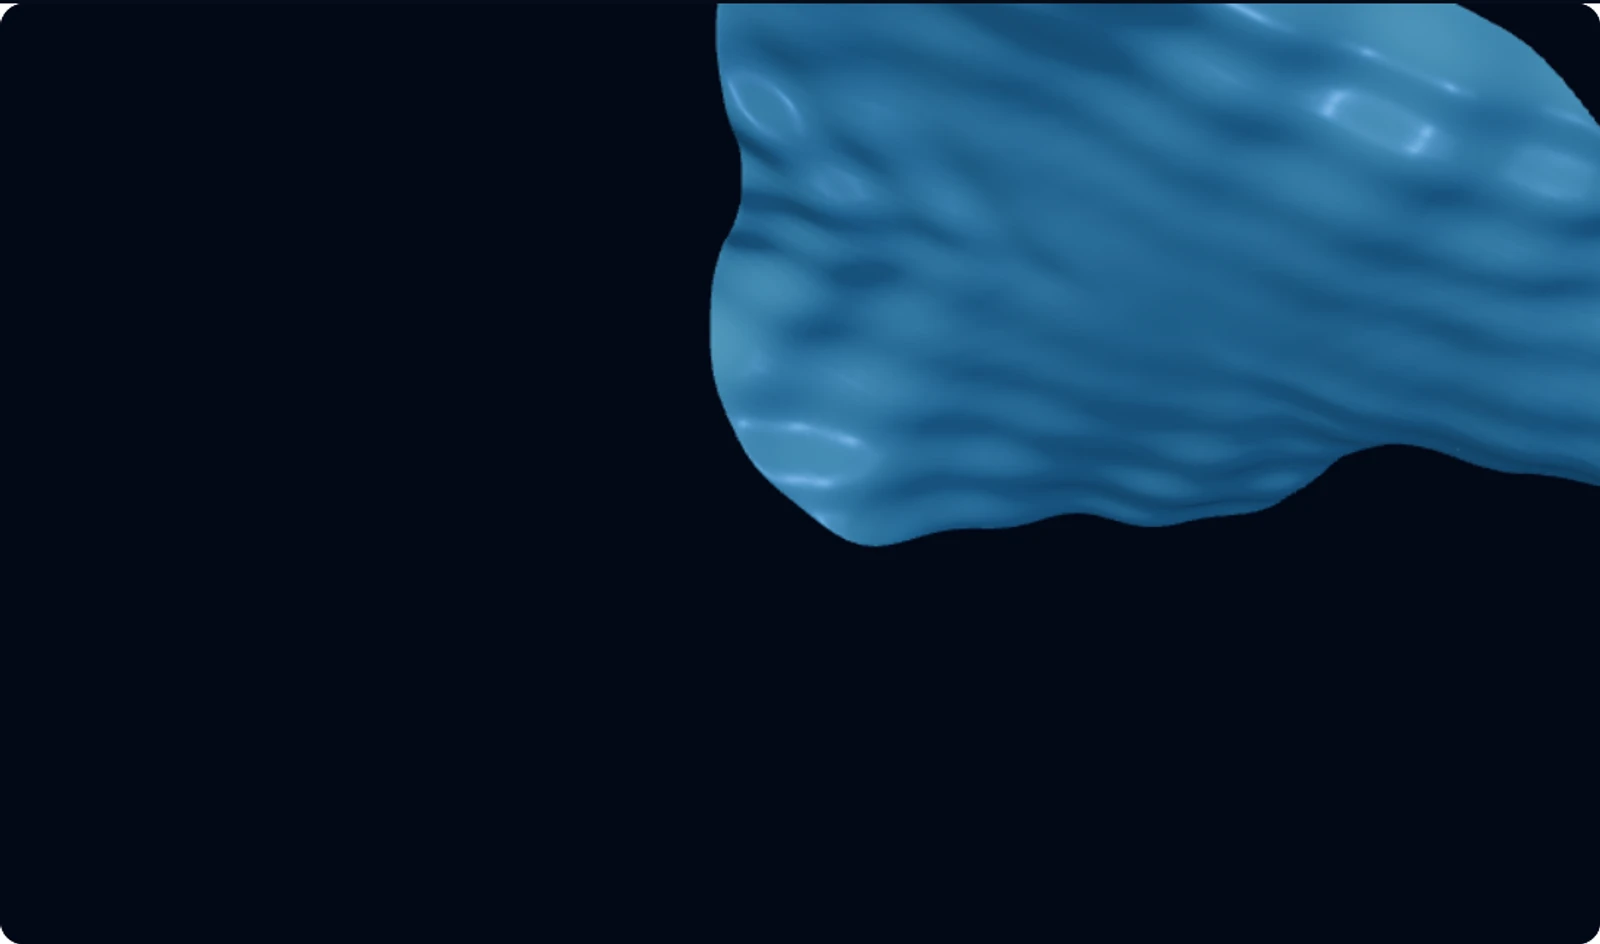
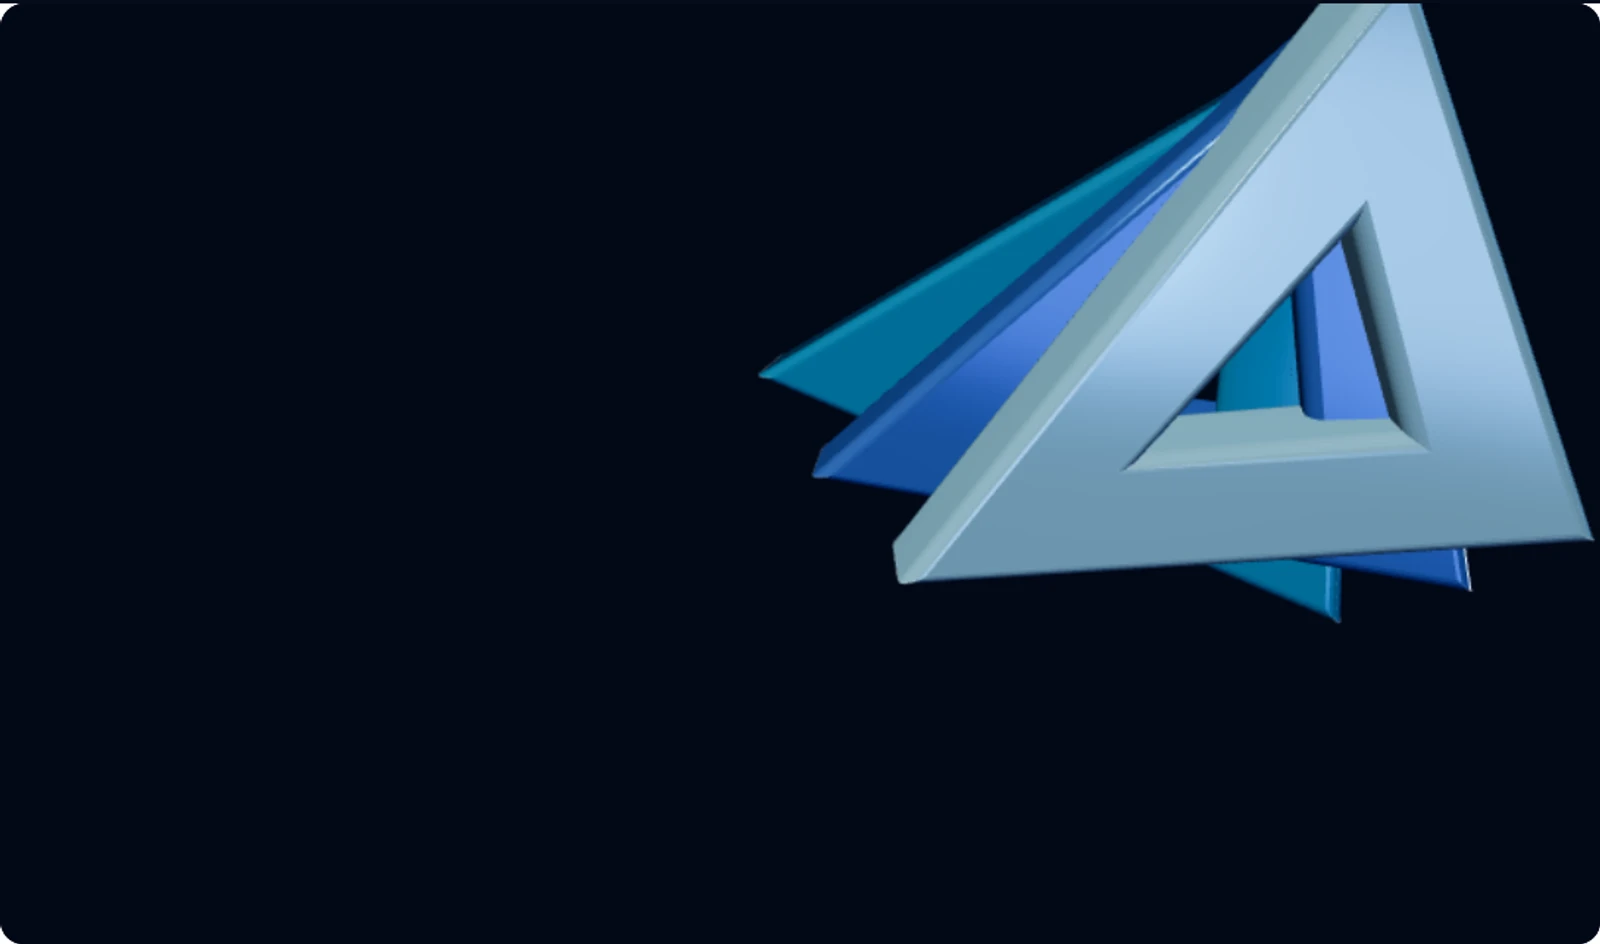
Replace Cytellect cell motif with optical aperture sculpture

diff --git a/src/app/(official)/founder/cell-field-engine.ts b/src/app/(official)/founder/cell-field-engine.ts
@@ -2,56 +2,35 @@ import * as THREE from "three";
 
 export type CellSceneController = { dispose(): void; syncMotion(): void };
 
-// Original deterministic artwork; not measured or reconstructed biological data.
-function membraneGeometry(detail: number) {
-  const geometry = new THREE.SphereGeometry(1, detail, Math.round(detail * .7));
-  const positions = geometry.attributes.position, p = new THREE.Vector3();
-  for (let i = 0; i < positions.count; i++) {
-    p.fromBufferAttribute(positions, i);
-    const angle = Math.atan2(p.y, p.x), radial = Math.hypot(p.x, p.y);
-    // A spread cell's shallow optical surface: broad asymmetry, not a swollen orb.
-    const outline = 1 + .105 * Math.sin(angle * 3 + .4) + .055 * Math.cos(angle * 5 - .8)
-      + .035 * Math.sin(angle * 2 - .6);
-    const edge = radial ** 4;
-    const drape = .16 * Math.sin(angle * 3 + .6) * edge
-      + .06 * Math.cos(angle * 6 - .9) * edge;
-    const saddle = .15 * p.x * p.y + .065 * Math.sin(p.x * 4 + p.y * 2) * radial;
-    const opticalFolds = .018 * Math.sin(p.x * 19 + p.y * 8 + Math.sin(p.y * 5) * 2)
-      + .009 * Math.sin(p.y * 31 - p.x * 7 + Math.sin(p.x * 4));
-    const thickness = .034 * p.z * (1 + .12 * Math.cos(p.x * 5 - p.y * 3));
-    positions.setXYZ(i, p.x * outline * 1.24, p.y * outline * .89, thickness + drape + saddle + opticalFolds * radial);
-  }
-  geometry.computeVertexNormals();
+// An authored optical sculpture, deliberately independent of cellular anatomy.
+function opticalFacet() {
+  const outline = new THREE.Shape();
+  outline.moveTo(-.94, -.69);
+  outline.lineTo(.92, -.54);
+  outline.lineTo(.15, .94);
+  outline.closePath();
+  const aperture = new THREE.Path();
+  aperture.moveTo(-.42, -.36);
+  aperture.lineTo(.15, .42);
+  aperture.lineTo(.45, -.29);
+  aperture.closePath();
+  outline.holes.push(aperture);
+  const geometry = new THREE.ExtrudeGeometry(outline, {
+    depth: .22, bevelEnabled: true, bevelSize: .06, bevelThickness: .06,
+    bevelSegments: 6, steps: 1, curveSegments: 1,
+  });
+  geometry.translate(0, 0, -.11);
   return geometry;
 }
 
-function membraneMaterial(time: THREE.IUniform<number>) {
-  const material = new THREE.MeshPhysicalMaterial({
-    color: 0x639ebd, metalness: .08, roughness: .22,
-    transmission: .48, thickness: .08,
-    attenuationColor: new THREE.Color(0x4e96d0), attenuationDistance: 2.5, ior: 1.34,
-    clearcoat: .12, clearcoatRoughness: .32, side: THREE.FrontSide, envMapIntensity: .85,
-    iridescence: .32, iridescenceIOR: 1.3, iridescenceThicknessRange: [140, 280],
+function opticalMaterial(color: number) {
+  return new THREE.MeshPhysicalMaterial({
+    color, metalness: .48, roughness: .13, transmission: .27,
+    thickness: .28, ior: 1.48, attenuationColor: new THREE.Color(color),
+    attenuationDistance: 1.7, clearcoat: 1, clearcoatRoughness: .065,
+    envMapIntensity: 1.8, iridescence: .18,
+    iridescenceIOR: 1.32, iridescenceThicknessRange: [160, 310],
   });
-  material.onBeforeCompile = shader => {
-    shader.uniforms.cellTime = time;
-    shader.vertexShader = "uniform float cellTime; varying vec3 cellSurface;\n" + shader.vertexShader;
-    shader.vertexShader = shader.vertexShader.replace("#include <begin_vertex>", `
-      #include <begin_vertex>
-      float drift = sin(position.x * 3.2 + position.y * 2.1 + cellTime * .25);
-      transformed.z += drift * .003;
-      cellSurface = position;
-    `);
-    shader.fragmentShader = "varying vec3 cellSurface;\n" + shader.fragmentShader;
-    shader.fragmentShader = shader.fragmentShader.replace("#include <normal_fragment_maps>", `
-      #include <normal_fragment_maps>
-      float relief = sin(cellSurface.x * 46.0 + sin(cellSurface.y * 9.0) * 3.0)
-        * cos(cellSurface.y * 39.0 + sin(cellSurface.x * 7.0) * 2.0);
-      normal = normalize(normal + vec3(dFdx(relief), dFdy(relief), 0.0) * .055);
-    `);
-  };
-  material.customProgramCacheKey = () => "cytellect-spread-membrane-v2";
-  return material;
 }
 
 function opticalEnvironment(renderer: THREE.WebGLRenderer) {
@@ -89,20 +68,32 @@ export async function mountCellScene(host: HTMLDivElement, isPaused: () => boole
     const rim = new THREE.DirectionalLight(0x58baff, 3.5); rim.position.set(4, 2, -2);
     const fill = new THREE.DirectionalLight(0x4174ba, .7); fill.position.set(1, -3, 4);
     scene.add(key, rim, fill);
-    const time = { value: 0 }, coarse = matchMedia("(max-width: 900px), (pointer: coarse)");
-    const outerGeometry = membraneGeometry(coarse.matches ? 96 : 128);
-    geometries.add(outerGeometry);
-    const membrane = membraneMaterial(time); materials.add(membrane);
-    const hero = new THREE.Mesh(outerGeometry, membrane);
+    const coarse = matchMedia("(max-width: 900px), (pointer: coarse)");
+    const facet = opticalFacet(); geometries.add(facet);
+    const hero = new THREE.Group();
+    const plates = [0x48a8c9, 0x628ed5, 0xc9e9f0].map((color, index) => {
+      const material = opticalMaterial(color); materials.add(material);
+      const plate = new THREE.Mesh(facet, material);
+      const edgeGeometry = new THREE.EdgesGeometry(facet, 28); geometries.add(edgeGeometry);
+      const edgeMaterial = new THREE.LineBasicMaterial({ color: index === 1 ? 0x90b6ff : 0xc9efff, transparent: true, opacity: .24 });
+      materials.add(edgeMaterial);
+      plate.add(new THREE.LineSegments(edgeGeometry, edgeMaterial));
+      hero.add(plate); return plate;
+    });
     scene.add(hero); host.appendChild(renderer.domElement);
     let visible = false, disposed = false, contextUnavailable = false;
     let frame = 0, lastTime = 0, lastRender = 0, elapsed = 0, renders = 0, heroX = 0, heroY = 0;
     const render = () => {
       if (disposed || contextUnavailable) return;
-      const phase = elapsed * Math.PI * 2 / 16; time.value = elapsed;
-      // Reveal thickness by changing incidence, never by inflating the silhouette.
-      hero.rotation.set(.82 + Math.sin(phase) * .19, -.32 + Math.sin(phase + .6) * .28, -.38 + Math.sin(phase - .4) * .1);
-      hero.position.set(heroX + Math.sin(phase) * .055, heroY + Math.sin(phase + .5) * .05, 0);
+      const phase = elapsed * Math.PI * 2 / 12;
+      hero.rotation.set(.32 + Math.sin(phase) * .16, -.48 + Math.sin(phase + .5) * .4, -.2);
+      hero.position.set(heroX, heroY + Math.sin(phase) * .035, 0);
+      plates.forEach((plate, index) => {
+        const lane = index - 1, opening = .5 - .5 * Math.cos(phase);
+        plate.position.set(lane * (.14 + opening * .16), lane * (.06 + opening * .09), lane * (.2 + opening * .19));
+        plate.rotation.y = lane * (.15 + opening * .24);
+        plate.rotation.z = lane * (.18 + opening * .12);
+      });
       renderer.render(scene, camera); host.dataset.renderCount = String(++renders);
     };
     const animate = (timestamp: number) => {
@@ -120,9 +111,9 @@ export async function mountCellScene(host: HTMLDivElement, isPaused: () => boole
       const { width, height } = host.getBoundingClientRect(); if (!width || !height) return;
       renderer.setSize(width, height, false); camera.aspect = width / height; camera.updateProjectionMatrix();
       const viewHeight = 2 * camera.position.z * Math.tan(THREE.MathUtils.degToRad(camera.fov / 2)), narrow = camera.aspect < 1.35;
-      hero.scale.setScalar(viewHeight * (narrow ? .30 : .45));
-      heroX = viewHeight * camera.aspect * (narrow ? .16 : .23);
-      heroY = viewHeight * (narrow ? .2 : .18); render();
+      hero.scale.setScalar(viewHeight * (narrow ? .30 : .36));
+      heroX = viewHeight * camera.aspect * (narrow ? .13 : .25);
+      heroY = viewHeight * (narrow ? .19 : .16); render();
     };
     const resizeObserver = new ResizeObserver(resize);
     const visibility = new IntersectionObserver(([entry]) => { visible = entry.isIntersecting; syncMotion(); });

diff --git a/public/images/founder-products/cytellect/NOTICE.md b/public/images/founder-products/cytellect/NOTICE.md
@@ -19,13 +19,14 @@ lighting and subtle rocking motion retain the cytellect presentation.
 This is authored microscopy-inspired artwork, not measured biological data.
 No research datasets or runtime dependency on the cytellect deployment are included.
 
-## Founder optical cell field — 2026-10-10
+## Founder optical sculpture — 2026-10-10
 
 The Founder card now uses original procedural artwork authored for this site in
 `src/app/(official)/founder/cell-field-engine.ts`, rather than the imported GLB.
-The shallow asymmetric spread-cell membrane is generated deterministically in
-Three.js, with gentle edge folds and optical surface relief, without internal
-organelle models. Its desktop and mobile WebP posters capture that same renderer.
+Three beveled geometric optical facets are generated deterministically in
+Three.js. Their separation, alignment and changing reflections form the motion;
+no cell membranes, organelles, organic deformation or microscopy imagery are used.
+Its desktop and mobile WebP posters capture that same renderer.
 No microscopy specimens, experimental data, external textures or AI-generated
 images are used. The original imported assets and provenance above are retained.
 Copyright (c) 2026 Yuto Matsui.
